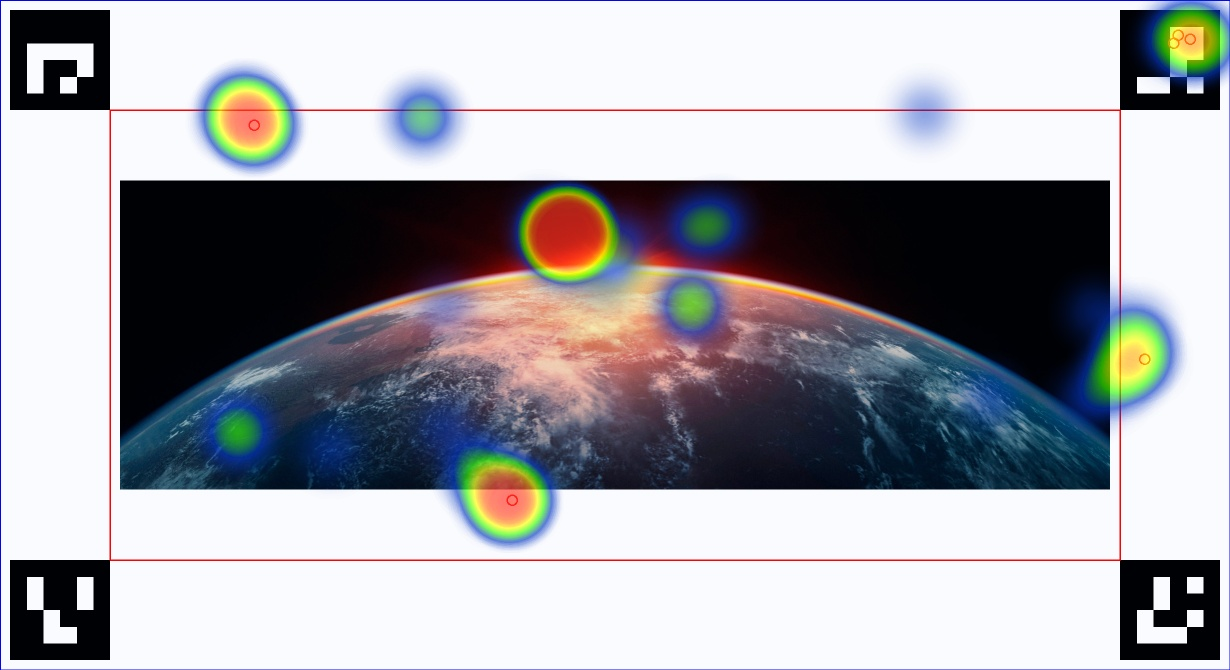
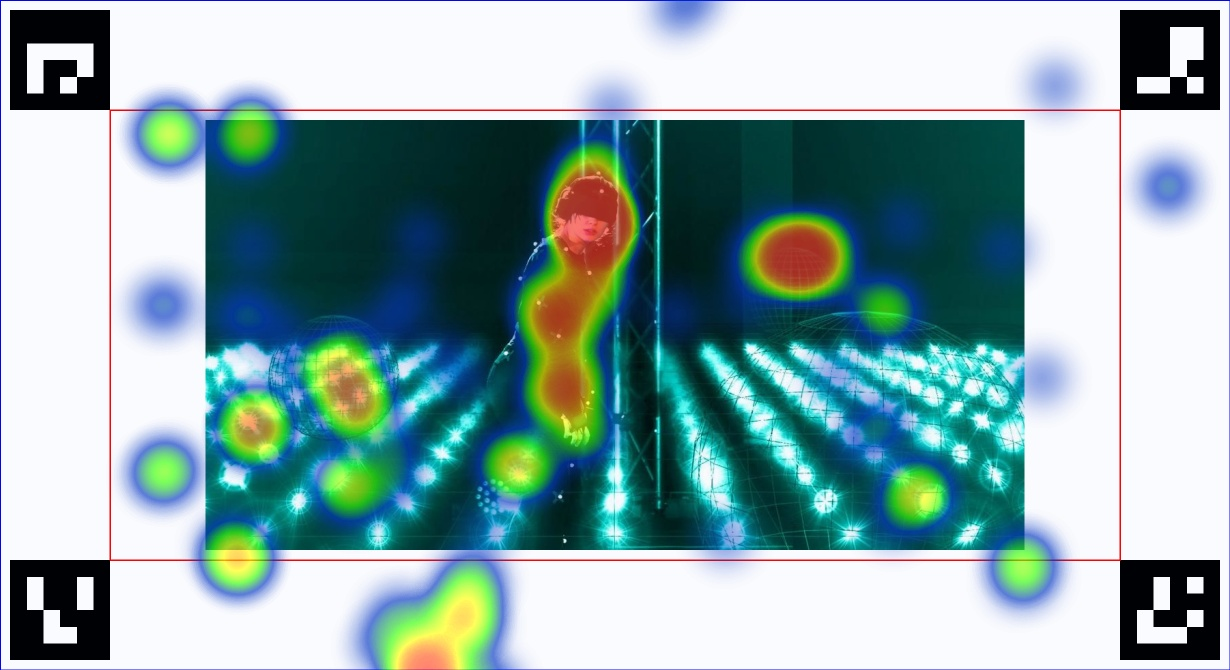
Calibration and celaning

diff --git a/debug.py b/debug.py
@@ -30,19 +30,15 @@ radialDistortion = data['radialDistortion']
 distCoeffs = np.zeros(4)
 distCoeffs[:2] = radialDistortion
 
-# Read image that is on foreground
-# overlay = cv2.imread("./heatmappy/assets/cat.jpg")
-# overlay = cv2.imread("c:Users/kapyla/Desktop/earth.jpg")
-overlay = cv2.imread("./imgs/civit2.jpg")
-# overlay = cv2.resize(overlay, (cols_world,rows_world), interpolation = cv2.INTER_AREA)
-
 # Create img with aruco markers on corners
 background = create_aruco_frame()
 background = cv2.resize(background, (cols_monitor,rows_monitor), interpolation = cv2.INTER_AREA)
-background = draw_borders(background)
-background = add_content(background, overlay)
 area_coords = get_area_coords()
 
+# Read image that is on foreground
+overlay = cv2.imread("./heatmappy/assets/cat.jpg")
+# overlay = cv2.imread("c:Users/kapyla/Desktop/earth.jpg")
+# overlay = cv2.resize(overlay, (cols_world,rows_world), interpolation = cv2.INTER_AREA)
 
 def main():
 
@@ -54,33 +50,24 @@ def main():
     
     while True:
         # image = background
-        # image = draw_borders(background)
-        # image = add_content(image, overlay)
-        image = background.copy()
+        image = draw_borders(background)
+        image = add_content(image, overlay)
         
         if draw:
             image = cv2.circle(
                 image,
                 (int(round(gaze_in_monitor[0])), int(round(gaze_in_monitor[1]))),
-                80, (0, 0, 255), 4
+                10, (0, 0, 255), 2
             )
-            # draw = False
-        
-        cv2.imshow("Image", image)   
-        key = cv2.waitKey(33)
-        
+            draw = False
+            
         # Fetch new matching img-gaze pair from the glasses
         scene_sample, gaze_sample = device.receive_matched_scene_video_frame_and_gaze()
         world_img = scene_sample.bgr_pixels     
         #gaze = np.array([int(gaze_sample.x), int(gaze_sample.y), 1])
-        gaze = np.array([gaze_sample.x, gaze_sample.y, 1])
-        world_img, gaze[:2] = undistort(world_img, gaze[:2], K, distCoeffs)
-        
-        world_img = cv2.circle(
-            world_img,
-            (int(round(gaze[0])), int(round(gaze[1]))),
-            40, (0, 0, 255), 2
-        )
+        gaze = np.array([gaze_sample.x, gaze_sample.y])
+        world_img, gaze[:2] = undistort(world_img, gaze, K, distCoeffs)
+                
         cv2.imshow("Pupil Invisible - Live Preview", world_img)   
         key = cv2.waitKey(33)
         
@@ -102,8 +89,7 @@ def main():
             
             if key==32:
                 # Show world video with gaze overlay
-                # draw = True
-                draw = not draw
+                draw = True
         
         # Draw heatmap, quit and save
         if key == 27:
@@ -118,9 +104,11 @@ def main():
             heatmap = cv2.cvtColor(heatmap, cv2.COLOR_RGB2BGR)
 
             cv2.imwrite("./outs/heatmap.jpg", heatmap)
-            cv2.imshow("Heatmap", heatmap)
+            cv2.imshow("window", heatmap)
             key = cv2.waitKey(0)
             break
+        
+        
         
     return gazes
 

diff --git a/funcs/aruco.py b/funcs/aruco.py
@@ -60,7 +60,7 @@ def get_warped(img, projective_matrix):
 
 # TODO Check if it works (first need to resize overlay to match monitor resolution (resolution used in defining projective matrix))
 # Morphs image to the area defined by arucos (background = pupil img)
-# Add overlay img on the content area
+# Add overlay img on the content area (This is world frame)
 def add_overlay(background, overlay, projective_matrix):
     rows, cols = overlay.shape[:2]
     warped = cv2.warpPerspective(overlay, np.linalg.inv(projective_matrix), (cols,rows))

diff --git a/testing.py b/testing.py
@@ -1,0 +1,21 @@
+import cv2
+import numpy as np
+import scipy.io
+
+img = cv2.imread("./data/calibration_imgs/ezgif-frame-001.jpg")
+
+data = scipy.io.loadmat('./data/intrinsicMatrix.mat')
+K = data['K'].T
+
+data = scipy.io.loadmat('./data/radialDistortion.mat')
+radialDistortion = data['radialDistortion']
+
+distCoeffs = np.zeros(4)
+distCoeffs[:2] = radialDistortion
+
+undistorted_img = cv2.undistort(img, K, distCoeffs) 
+
+cv2.imshow("window1", img)
+cv2.imshow("window2", undistorted_img)
+key = cv2.waitKey(0)
+cv2.destroyAllWindows()

diff --git a/funcs/pupil.py b/funcs/pupil.py
@@ -2,11 +2,12 @@
 # -*- coding: utf-8 -*-
 
 from pupil_labs.realtime_api.simple import discover_one_device
+import cv2
 
 # undistord gaze and image
-def undistord(frame, gaze):
-    frame_undistorted = frame
-    gaze_undistorted = gaze
+def undistort(frame, gaze, K, distCoeffs):
+    frame_undistorted = cv2.undistort(frame, K, distCoeffs) 
+    gaze_undistorted = 	cv2.undistortImagePoints(gaze, K, distCoeffs)
     return frame_undistorted, gaze_undistorted
     
 
